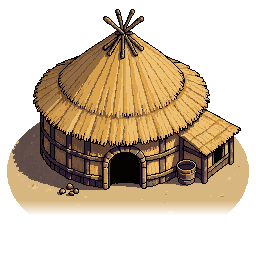
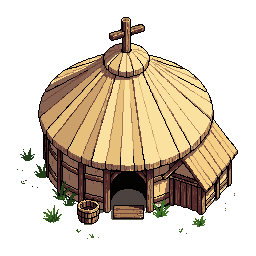
Town Center L1: drop the ground patch, regenerate with real transparency
Previous PixelLab pass baked a sand disc under the hut and, per direct
pixel inspection, never actually came back with alpha transparency —
no_background=true still filled every corner opaque. This pass
generates candidates as isolated objects, then uses edit_image to
strip the ground/background (verified corner alpha == 0 and a
zero-edge-touch bounding box before accepting), and pads the result
onto a fresh transparent 256x256 canvas so nothing crosses an edge.
The hut now sits on its own drop shadow + grass tufts, no dirt/sand
underneath. Re-measured SMOKE_AT.tc and CAMPFIRE_AT.tc against the new
art's roof-hole and doorway positions; verified in-browser that both
the fire ring and hearth smoke composite correctly at default and
close zoom.

diff --git a/js/render.js b/js/render.js
@@ -1677,7 +1677,7 @@ const R = {
      in flames doesn't bother — its own fire is already the story. */
   SMOKE_AT: {
     house:   { x: 21.5 / 32, y: 3 / 32 },     // the chimney pot
-    tc:      { x: 15.5 / 32, y: 1 / 32 },     // the hall's roof-hole / ridge
+    tc:      { x: 15.7 / 32, y: 3 / 32 },     // the hall's roof-hole / ridge
     lodge:   { x: 12 / 32, y: 7 / 32 },       // the smoking rack's fire
     warcamp: { x: 15.5 / 32, y: 9 / 32 },     // the campfire under the ridge pole
     trade:   { x: 3 / 16, y: 1 / 16 },        // the trader's brazier
@@ -1719,7 +1719,7 @@ const R = {
      used to fake with three raw fillRects — cheap, and never fights the
      fine-grained flame already painted into the master. */
   CAMPFIRE_AT: {
-    tc: { x: 15.5 / 32, y: 25.5 / 32 },   // the stone ring's own centre
+    tc: { x: 10.9 / 32, y: 29.4 / 32 },   // the dooryard, in front of the door
   },
   drawCampfire(g, b, bx, by, bw) {
     const a = this.CAMPFIRE_AT[b.key];
